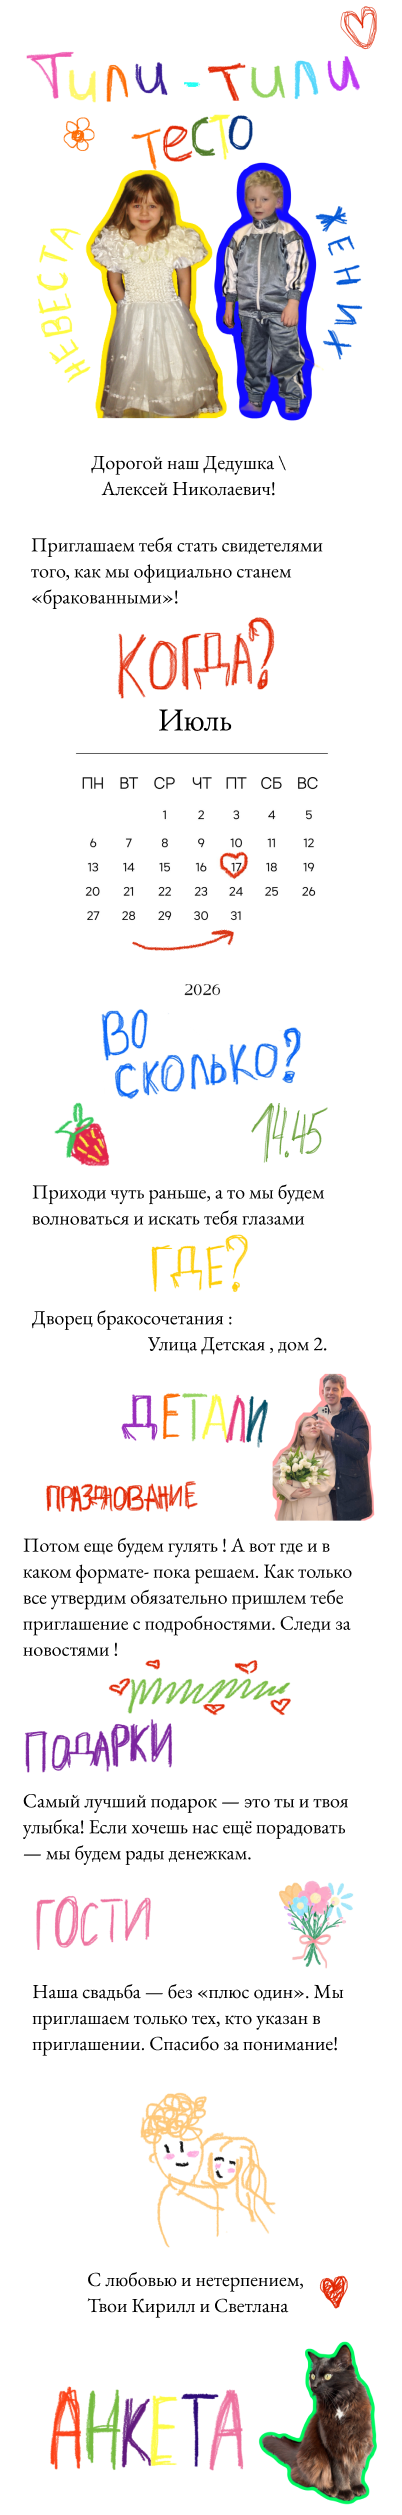
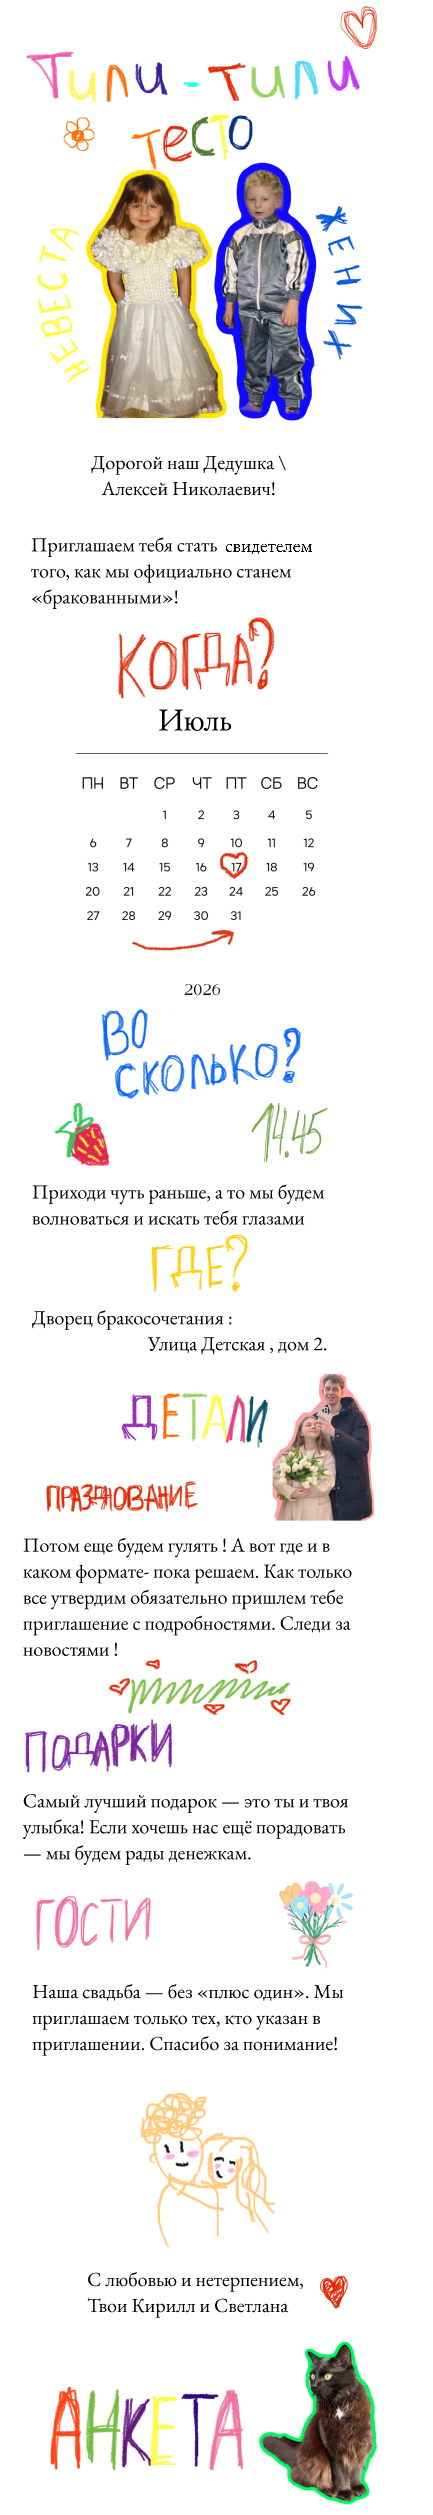
fix-photo

diff --git a/igor_babin.html b/igor_babin.html
@@ -1,7 +1,7 @@
 <!DOCTYPE html>
 <html lang="ru">
 <head>
-    <!-- Привет, я знал, что ты сюда полезешь! ?  -->
+    <!-- Привет, я знал, что ты сюда полезешь! Спасибо, что переживал за нас все это время! Будем рады тебе на нашем дне!  -->
     <meta charset="UTF-8">
     <meta name="viewport" content="width=device-width, initial-scale=1.0">
     <title>Wedding</title>
